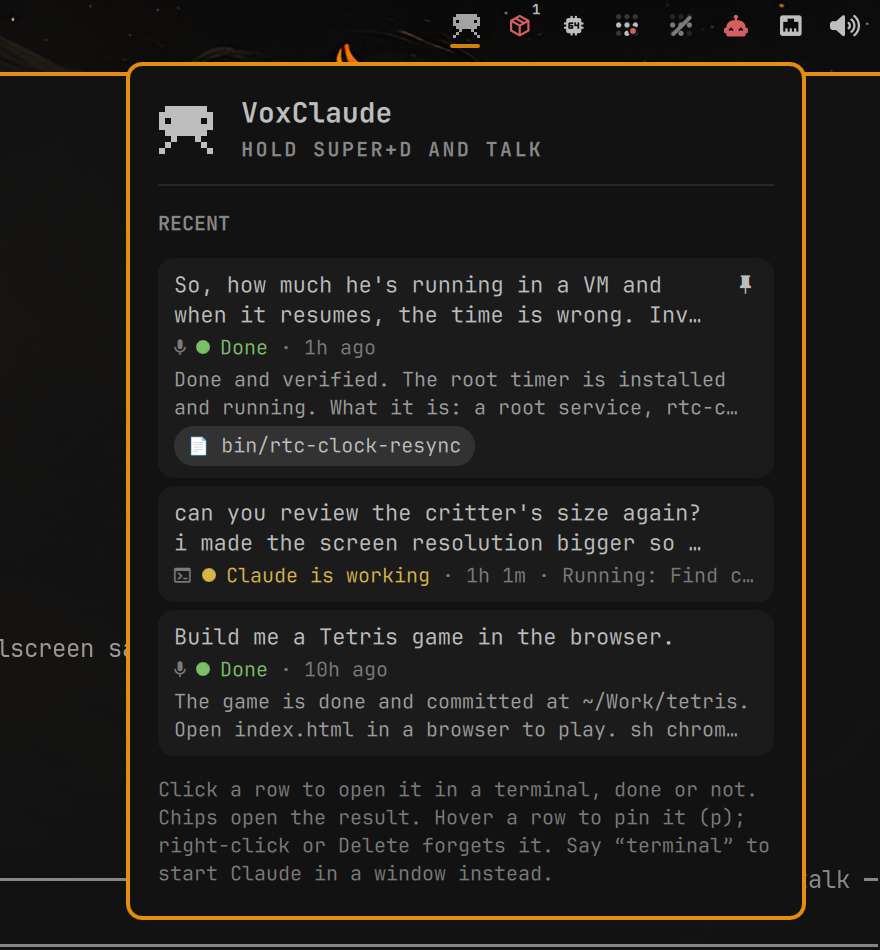
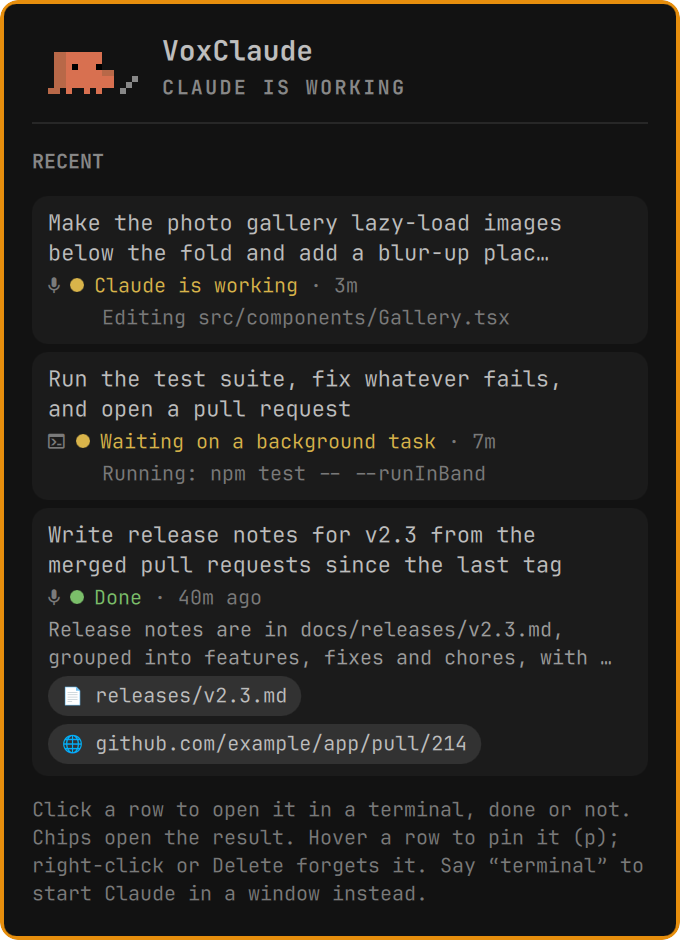
Reshoot the README preview with the laptop critter
The popover as it looks now, over a mocked feed: a voice session working,
a terminal session waiting on a background test run, and a finished one
with its reply and result chips, with the hint text in full.

Claude-Session: https://claude.ai/code/session_019aAQxm911VksLM1bJ9nqiD

diff --git a/README.md b/README.md
@@ -11,6 +11,8 @@ Built for the [Omarchy](https://omarchy.org) shell on top of
 [voxtype](https://github.com/peteonrails/voxtype) and the
 [Claude Code](https://code.claude.com) CLI.
 
+<p align="center"><img src="preview.png" width="340" alt="The VoxClaude popover: two sessions working, one done with its result chips"></p>
+
 ## What you get
 
 - **Bar critter**: a pixel-art invader with Claude's eyes. It sits still when
